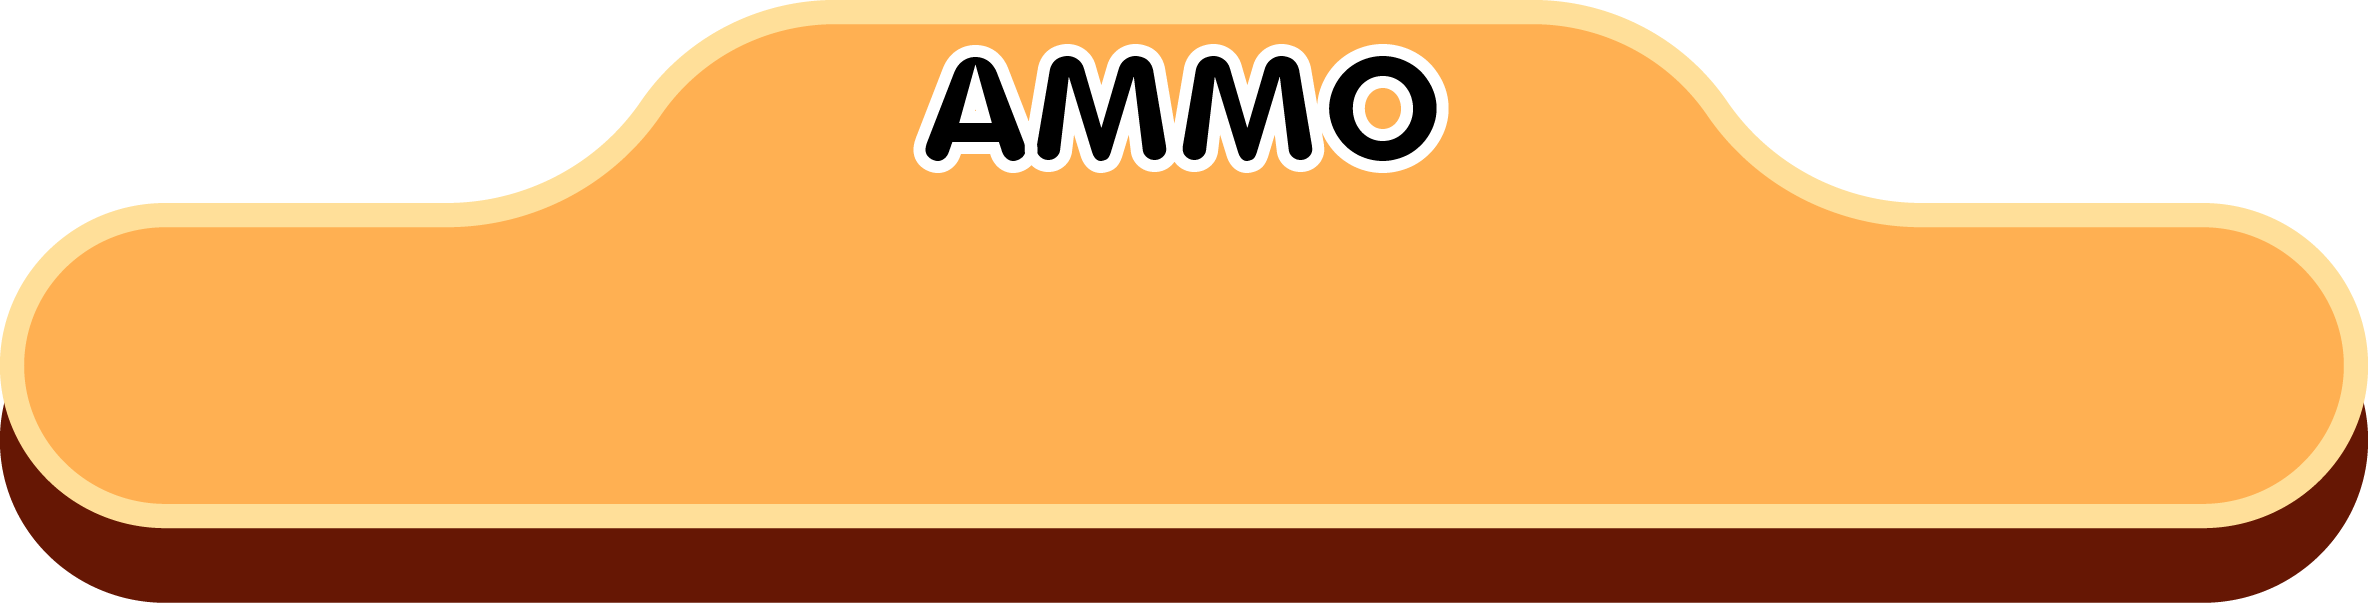
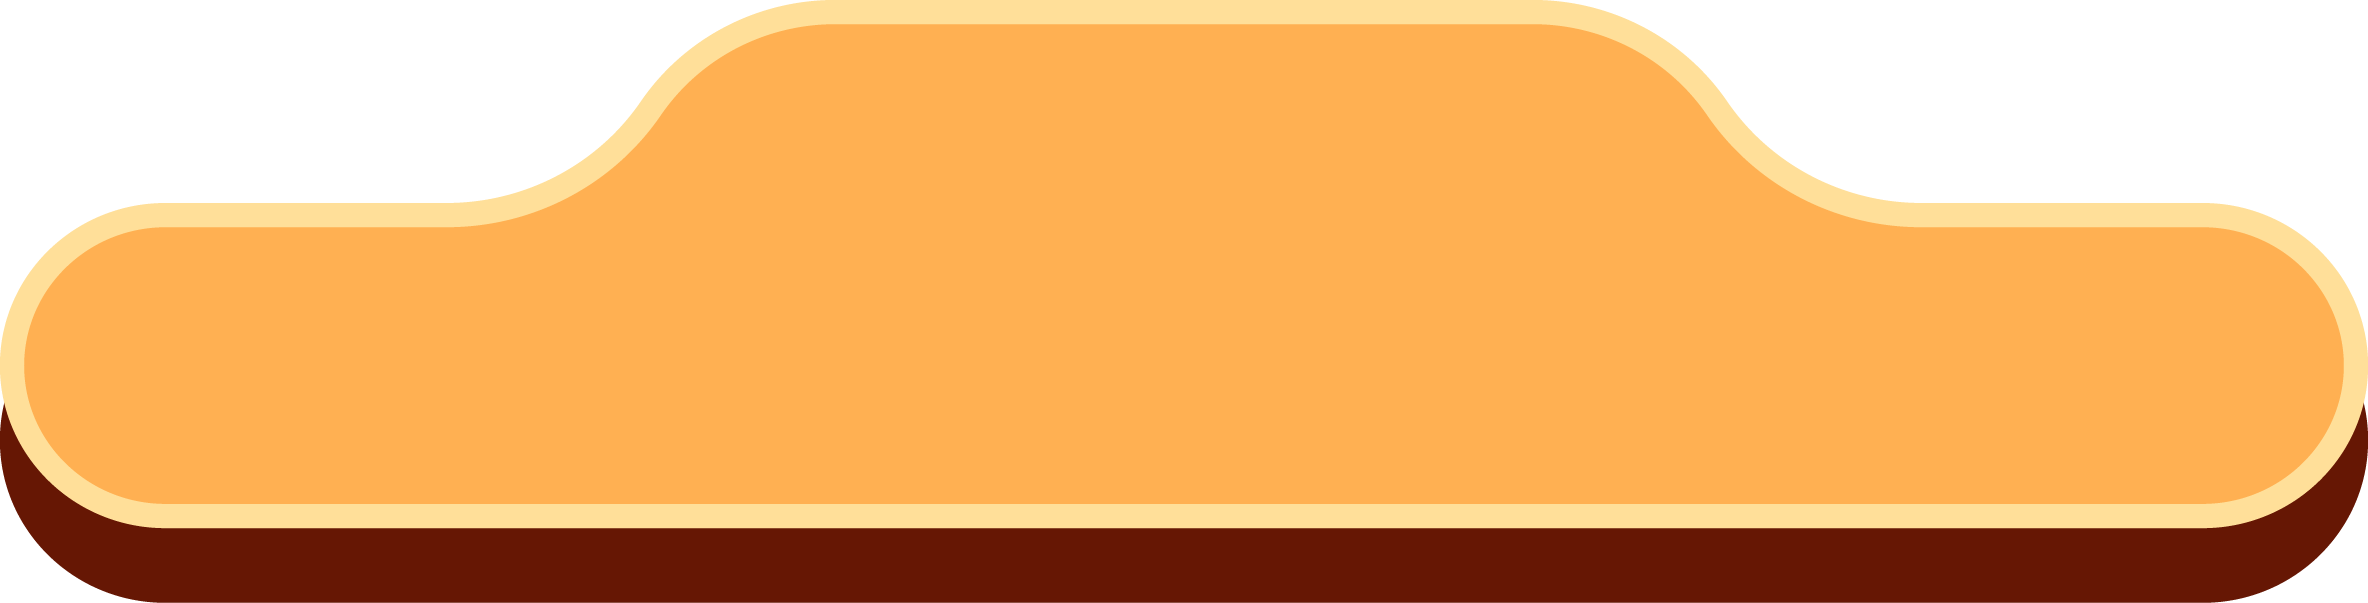
Replace score/ammo/time HUD panels with blank assets and text labels
Swap in the Drive blank panel art (same dimensions) and render SCORE,
AMMO, and TIME as separate DOM labels so panel chrome stays text-free.

Changed region(s): [[0.375, 0.0597, 0.625, 0.2985]]

diff --git a/index.html b/index.html
@@ -243,6 +243,37 @@
         image-rendering: auto;
       }
 
+      /* Panel title labels (separate from baked-in art) */
+      .hud-panel-label {
+        position: absolute;
+        z-index: 1;
+        font: 800 clamp(11px, 1.7vw, 18px)/1 'Baloo 2', 'Fredoka', sans-serif;
+        letter-spacing: 0.04em;
+        pointer-events: none;
+        user-select: none;
+        white-space: nowrap;
+        paint-order: stroke fill;
+      }
+      .hud-score-label {
+        left: 14.8%;
+        top: 7.3%;
+        color: #fff;
+        -webkit-text-stroke: 2.5px #1a1018;
+      }
+      .hud-ammo-label {
+        left: 50%;
+        top: 7.3%;
+        transform: translateX(-50%);
+        color: #1a1018;
+        -webkit-text-stroke: 2.5px #fff;
+      }
+      .hud-time-label {
+        right: 19%;
+        top: 7.3%;
+        color: #1a1018;
+        -webkit-text-stroke: 2.5px #fff;
+      }
+
       /* SCORE — flush left edge of screen */
       .hud-score {
         width: clamp(150px, 21vw, 270px);

diff --git a/src/ui/HUD.ts b/src/ui/HUD.ts
@@ -33,6 +33,7 @@ export class HUD {
       mode === 'timed'
         ? `
       <div class="hud-panel hud-time" aria-label="Time">
+        <span class="hud-panel-label hud-time-label">TIME</span>
         <div class="hud-time-value">
           <span class="hud-time-sec">180</span>
           <span class="hud-time-dot">.</span>
@@ -51,12 +52,14 @@ export class HUD {
             <span class="hud-combo-text">COMBO <span class="hud-combo-mult">2X</span></span>
           </div>
           <div class="hud-panel hud-score" aria-label="Score">
+            <span class="hud-panel-label hud-score-label">SCORE</span>
             <span class="hud-score-num">0</span>
           </div>
         </div>
 
         <div class="hud-center">
           <div class="hud-panel hud-ammo" aria-label="Ammo">
+            <span class="hud-panel-label hud-ammo-label">AMMO</span>
             <div class="hud-ammo-icons">${teeth}</div>
           </div>
         </div>
